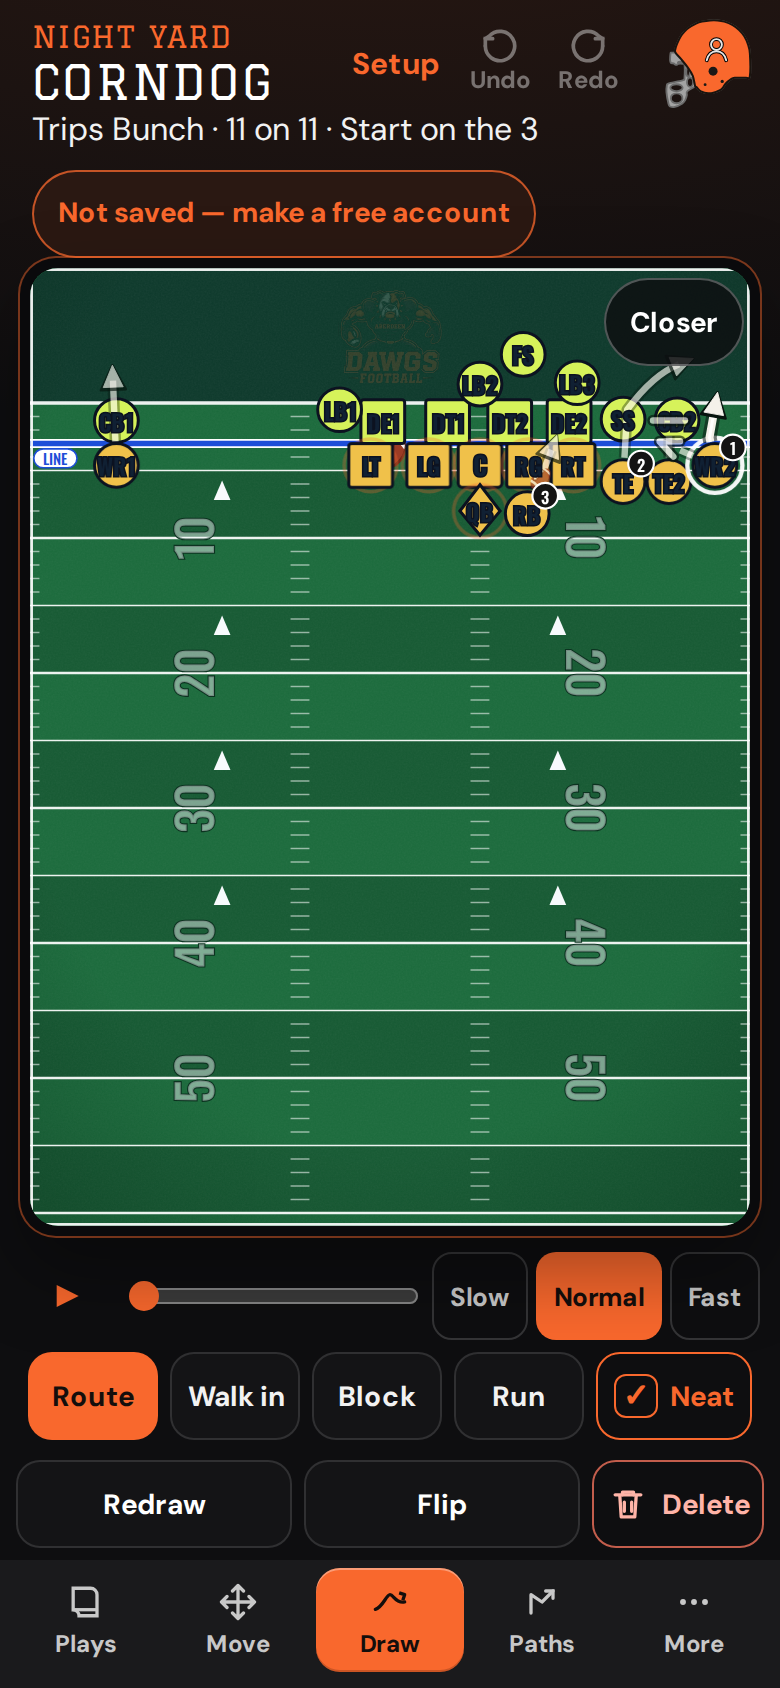
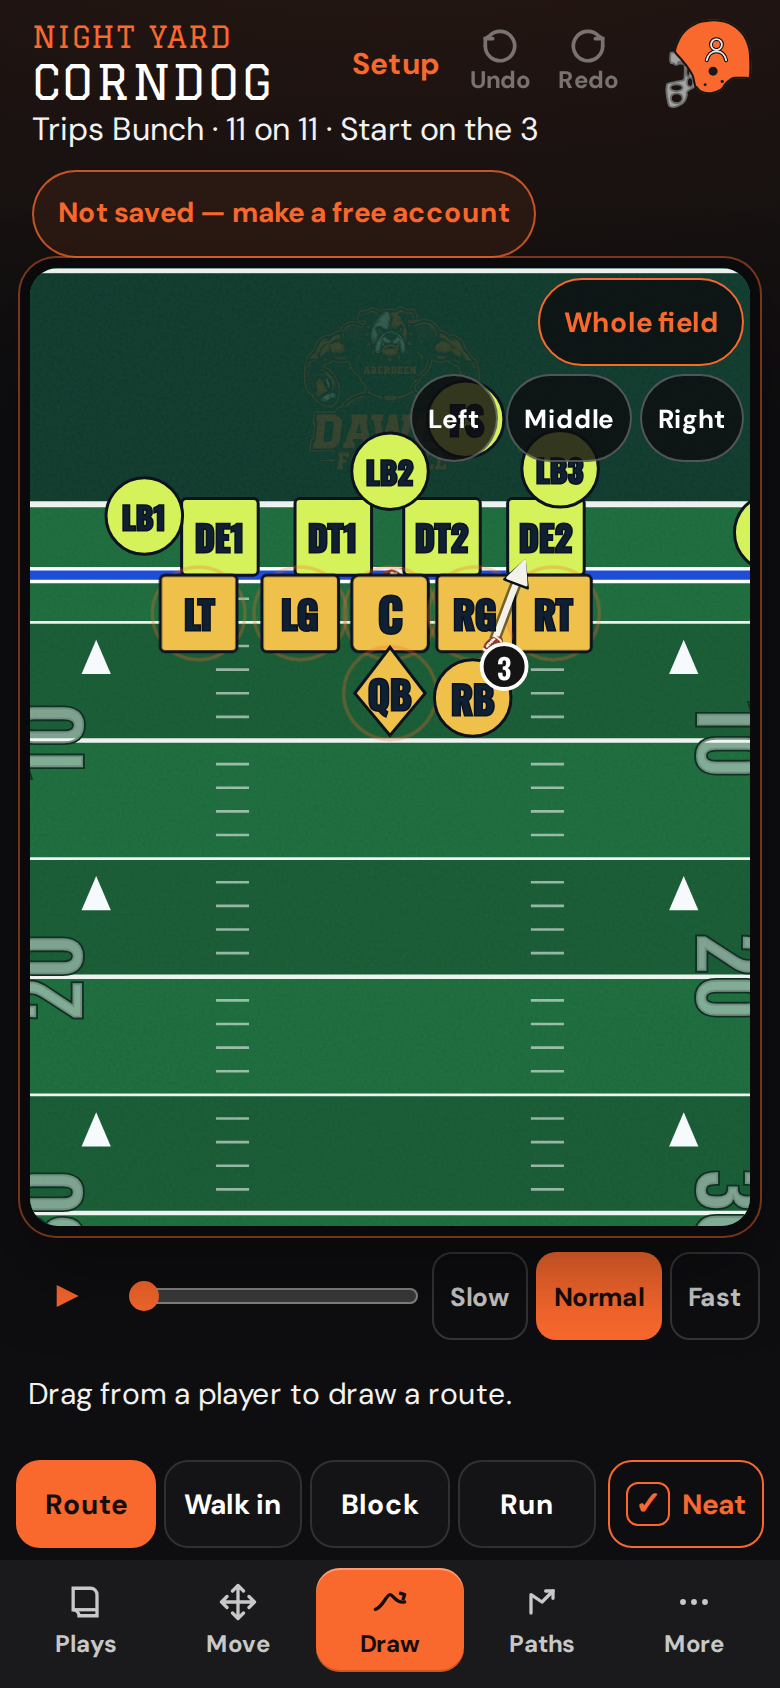
Center the example plays on the ball.
Corndog lines up at midfield, and Closer opens on the center instead of the middle of the grass.

diff --git a/src/play.ts b/src/play.ts
@@ -1,7 +1,7 @@
 import { categoryOf } from './categories'
-import { DEFAULT_LOS, HASH_INSET } from './fieldMarks'
+import { DEFAULT_LOS } from './fieldMarks'
 import { OUR_COLOR, THEIR_COLOR, defenseFor, formationById, offenseFor, playerFromSpot, routeColorAt, shapeFor, specialDefense, type Spot } from './formations'
-import { FIELD_WIDTH, PLAYER_R, insideDir, pointOnStroke } from './geometry'
+import { FIELD_WIDTH, PLAYER_R, clamp, insideDir, pointOnStroke } from './geometry'
 import { migrateBuiltinLabels } from './labels'
 import { canRedo, canUndo, commit, createHistory, redo, undo, type History } from './history'
 import { uid } from './id'
@@ -89,7 +89,7 @@ function drawn(playerId: string, kind: StrokeKind, preset: PresetId | null, poin
 
 /** Goal-line bunch. A fresh book starts here. New play uses the 30. A book that already has plays is left alone. */
 export function corndogPlay(name = 'Corndog'): Play {
-  const ball = FIELD_WIDTH - HASH_INSET
+  const ball = FIELD_WIDTH / 2
   const line = -PLAYER_R
   const offLine = -PLAYER_R - 1.2
   const rush = PLAYER_R
@@ -104,9 +104,9 @@ export function corndogPlay(name = 'Corndog'): Play {
       { label: 'C', role: 'center', x: ball, y: line },
       { label: 'RG', role: 'ol', x: ball + 3.6, y: line },
       { label: 'RT', role: 'ol', x: ball + 6.9, y: line },
-      { label: 'TE', role: 'te', x: ball + 10.6, y: offLine },
-      { label: 'TE2', role: 'te', x: ball + 14, y: offLine },
-      { label: 'WR2', role: 'wr', x: ball + 17.4, y: line },
+      { label: 'TE', role: 'te', x: ball + 17, y: offLine },
+      { label: 'TE2', role: 'te', x: ball + 19.4, y: offLine },
+      { label: 'WR2', role: 'wr', x: ball + 21.6, y: line },
       { label: 'WR1', role: 'wr', x: 6.4, y: line },
       { label: 'QB', role: 'qb', x: ball, y: -5 },
       { label: 'RB', role: 'rb', x: ball + 3.5, y: -5.2 },
@@ -125,9 +125,9 @@ export function corndogPlay(name = 'Corndog'): Play {
       { label: 'LB2', role: 'lb', x: ball, y: 4.4 },
       { label: 'LB3', role: 'lb', x: ball + 7.2, y: 4.5 },
       { label: 'CB1', role: 'db', x: 6.4, y: 1.7 },
-      { label: 'SS', role: 'db', x: ball + 10.6, y: 1.8 },
+      { label: 'SS', role: 'db', x: ball + 16.2, y: 1.8 },
       { label: 'FS', role: 'db', x: ball + 3.2, y: 6.6 },
-      { label: 'CB2', role: 'db', x: ball + 14.6, y: 1.75 },
+      { label: 'CB2', role: 'db', x: ball + 20.2, y: 1.75 },
     ],
     'defense',
     false,
@@ -143,7 +143,7 @@ export function corndogPlay(name = 'Corndog'): Play {
   const tight = byLabel.TE2
   const z = byLabel.WR1
   const back = byLabel.RB
-  const snapX = x.x - 4.1
+  const snapX = x.x - 3.6
   play.strokes = [
     drawn(x.id, 'motion', 'motion', [
       { x: x.x, y: x.y },
@@ -161,9 +161,9 @@ export function corndogPlay(name = 'Corndog'): Play {
       [
         { x: y.x, y: y.y },
         { x: y.x + 0.3, y: 2.5 },
-        { x: y.x + 5.2, y: 6.3 },
+        { x: y.x + 1.8, y: 6.3 },
       ],
-      { x: y.x + 2.2, y: 5.1 },
+      { x: y.x + 0.6, y: 5.1 },
     ),
     drawn(tight.id, 'block', 'block', [
       { x: tight.x, y: tight.y },
@@ -376,6 +376,13 @@ export function ballXOf(play: Play): number {
   const center = play.players.find((player) => player.role === 'center')
   const qb = play.players.find((player) => player.role === 'qb')
   return center?.x ?? qb?.x ?? FIELD_WIDTH / 2
+}
+
+/** Where Closer looks. Middle is the ball, not the middle of the grass. */
+export function closerAim(play: Play, side: 'left' | 'middle' | 'right' = 'middle'): { x: number; y: number } {
+  const ball = ballXOf(play)
+  const shift = side === 'left' ? -12 : side === 'right' ? 12 : 0
+  return { x: clamp(ball + shift, 8, FIELD_WIDTH - 8), y: 0 }
 }
 
 export function applyPreset(play: Play, playerId: string, preset: PresetId, side?: BreakSide): Play {

diff --git a/src/components/App.tsx b/src/components/App.tsx
@@ -1,11 +1,12 @@
 import { useEffect, useLayoutEffect, useRef, useState } from 'preact/hooks'
 import { DEFAULT_LOS } from '../fieldMarks'
-import { FIELD_WIDTH, cameraForBox } from '../geometry'
+import { cameraAroundPlayers, cameraForBox } from '../geometry'
 import {
   applyMan,
   applyPreset,
   ballLabel,
   ballXOf,
+  closerAim,
   defaultBreakSide,
   deleteStroke,
   flipPlay,
@@ -169,7 +170,8 @@ export function App() {
     const measure = () => {
       const rect = el.getBoundingClientRect()
       if (rect.width < 40 || rect.height < 40) return
-      setCamera(cameraForBox(rect.width, rect.height, play?.los ?? DEFAULT_LOS))
+      const fitted = cameraAroundPlayers(cameraForBox(rect.width, rect.height, play?.los ?? DEFAULT_LOS), play?.players ?? [])
+      setCamera(fitted)
     }
     measure()
     const observer = new ResizeObserver(measure)
@@ -711,7 +713,7 @@ export function App() {
                 onRedrawDone={() => setRedrawPlayerId(null)}
                 neat={neat}
                 zoom={closer ? 1.75 : 1}
-                zoomAt={zoomAt}
+                zoomAt={zoomAt ?? closerAim(play)}
                 onToggleZoom={(point) => {
                   setZoomAt(point)
                   setCloser((value) => !value)
@@ -725,7 +727,7 @@ export function App() {
               aria-pressed={closer}
               data-tip={closer ? 'Show the whole field' : 'See the players up close'}
               onClick={() => {
-                setZoomAt({ x: FIELD_WIDTH / 2, y: 0 })
+                setZoomAt(closerAim(play))
                 setCloser((value) => !value)
               }}
             >
@@ -733,9 +735,9 @@ export function App() {
             </button>
             {closer ? (
               <div class="zoom-sides" role="group" aria-label="Which part of the field">
-                <button type="button" onClick={() => setZoomAt({ x: FIELD_WIDTH * 0.22, y: zoomAt?.y ?? 0 })}>Left</button>
-                <button type="button" onClick={() => setZoomAt({ x: FIELD_WIDTH / 2, y: zoomAt?.y ?? 0 })}>Middle</button>
-                <button type="button" onClick={() => setZoomAt({ x: FIELD_WIDTH * 0.78, y: zoomAt?.y ?? 0 })}>Right</button>
+                <button type="button" onClick={() => setZoomAt(closerAim(play, 'left'))}>Left</button>
+                <button type="button" onClick={() => setZoomAt(closerAim(play, 'middle'))}>Middle</button>
+                <button type="button" onClick={() => setZoomAt(closerAim(play, 'right'))}>Right</button>
               </div>
             ) : null}
           </div>

diff --git a/src/play.test.ts b/src/play.test.ts
@@ -30,6 +30,7 @@ import {
   serializePlay,
   serializePlaybook,
   serializePlaybookFile,
+  closerAim,
   showcasePlay,
   translatePlayer,
 } from './play'
@@ -74,9 +75,15 @@ describe('play model', () => {
     }
 
     const starter = showcasePlay()
-    const ballX = FIELD_WIDTH - 20
     const center = starter.players.find((player) => player.role === 'center')!
-    expect(Math.abs(center.x - ballX)).toBeLessThan(0.05)
+    expect(center.x).toBeCloseTo(midfield, 5)
+    expect(starter.players.find((player) => player.label === 'QB')!.x).toBeCloseTo(midfield, 5)
+    expect(closerAim(starter, 'middle').x).toBeCloseTo(center.x, 5)
+    const hashed = createPlay({ format: '11v11', formationId: 'trips-bunch' })
+    const hashCenter = hashed.players.find((player) => player.role === 'center')!
+    hashCenter.x = FIELD_WIDTH - 20
+    expect(closerAim(hashed, 'middle').x).toBeCloseTo(hashCenter.x, 5)
+    expect(closerAim(hashed, 'middle').x).not.toBeCloseTo(FIELD_WIDTH / 2, 0)
     for (const stroke of starter.strokes) {
       const samples = [...stroke.points, ...stroke.curves.filter((point): point is { x: number; y: number } => point !== null)]
       for (const point of samples) {

diff --git a/src/fieldMarkup.ts b/src/fieldMarkup.ts
@@ -571,7 +571,8 @@ export function fieldMarkup(options: {
     parts.push(`<line x1="${(w - tick).toFixed(1)}" y1="${y.toFixed(1)}" x2="${w}" y2="${y.toFixed(1)}" stroke="${stroke}" stroke-width="1.1"/>`)
   }
   parts.push(scrimmageMarkup(svgY(fieldYAt(play.los, play.los)).toFixed(2), w, scale, theme))
-  const ball = fieldToSvg({ x: FIELD_WIDTH / 2, y: -0.85 }, camera)
+  const snapper = play.players.find((player) => player.role === 'center') ?? play.players.find((player) => player.role === 'qb')
+  const ball = fieldToSvg({ x: snapper?.x ?? FIELD_WIDTH / 2, y: -0.85 }, camera)
   parts.push(ballMarkup(ball.x, ball.y, scale, theme.ballFill, theme.ballStroke))
   parts.push(yardNumbers(play.los, scale, ahead, h, theme))
   const pxPerUnit = options.pxPerUnit && options.pxPerUnit > 0 ? options.pxPerUnit : 1

diff --git a/src/geometry.ts b/src/geometry.ts
@@ -126,6 +126,19 @@ export function cameraForBox(widthPx: number, heightPx: number, los = DEFAULT_LO
   return { ahead, behind, scale }
 }
 
+/** Grow the window so every player is on screen, with a little grass around them. */
+export function cameraAroundPlayers(base: Camera, players: readonly { y: number }[]): Camera {
+  if (players.length === 0) return base
+  const pad = 3.5
+  const top = Math.max(...players.map((player) => player.y)) + pad
+  const bottom = Math.min(...players.map((player) => player.y)) - pad
+  return {
+    ...base,
+    ahead: Math.max(base.ahead, top),
+    behind: Math.max(base.behind, -bottom),
+  }
+}
+
 /**
  * Freehand tolerances in CSS pixels. Convert with `pixelsToYards` so a phone
  * and a desktop keep the same finger gesture.

diff --git a/src/components/Sheets.tsx b/src/components/Sheets.tsx
@@ -560,7 +560,7 @@ export function MoreSheet(props: {
       <HeadKey />
       <a class="row-btn about-link" href="https://github.com/siriusbontea/nightyard" target="_blank" rel="noreferrer">
         About Night Yard
-        <small>A play designer you can learn without a grown-up. Version 1.2.1</small>
+        <small>A play designer you can learn without a grown-up. Version 1.2.2</small>
       </a>
       <p class="fine">A free account saves plays on every device. Plays already on this phone stay here.</p>
     </Sheet>

diff --git a/src/pwa.test.ts b/src/pwa.test.ts
@@ -11,7 +11,7 @@ describe('service worker', () => {
     expect(source).toContain('skipWaiting: false')
     expect(source).toContain('clientsClaim: true')
     expect(source).toContain('cleanupOutdatedCaches: true')
-    expect(source).toContain("cacheId: 'night-yard-6'")
+    expect(source).toContain("cacheId: 'night-yard-7'")
     expect(source).toContain("theme_color: '#F9682D'")
     expect(source).toContain("background_color: '#191919'")
     expect(source).toContain('icon-maskable-192.png')

diff --git a/vite.config.ts b/vite.config.ts
@@ -50,7 +50,7 @@ export default defineConfig(({ command }) => {
                 method,
               })),
               cleanupOutdatedCaches: true,
-              cacheId: 'night-yard-6',
+              cacheId: 'night-yard-7',
               // The new worker waits until the page asks it to take over, then claims open tabs.
               skipWaiting: false,
               clientsClaim: true,

diff --git a/src/components/Field.tsx b/src/components/Field.tsx
@@ -440,7 +440,7 @@ export function Field(props: FieldProps) {
       ref={svgRef}
       class="field"
       viewBox={`${viewX} ${viewY} ${viewW} ${viewH}`}
-      preserveAspectRatio="none"
+      preserveAspectRatio="xMidYMid meet"
       role="img"
       aria-label={`${props.play.name} field`}
     />
